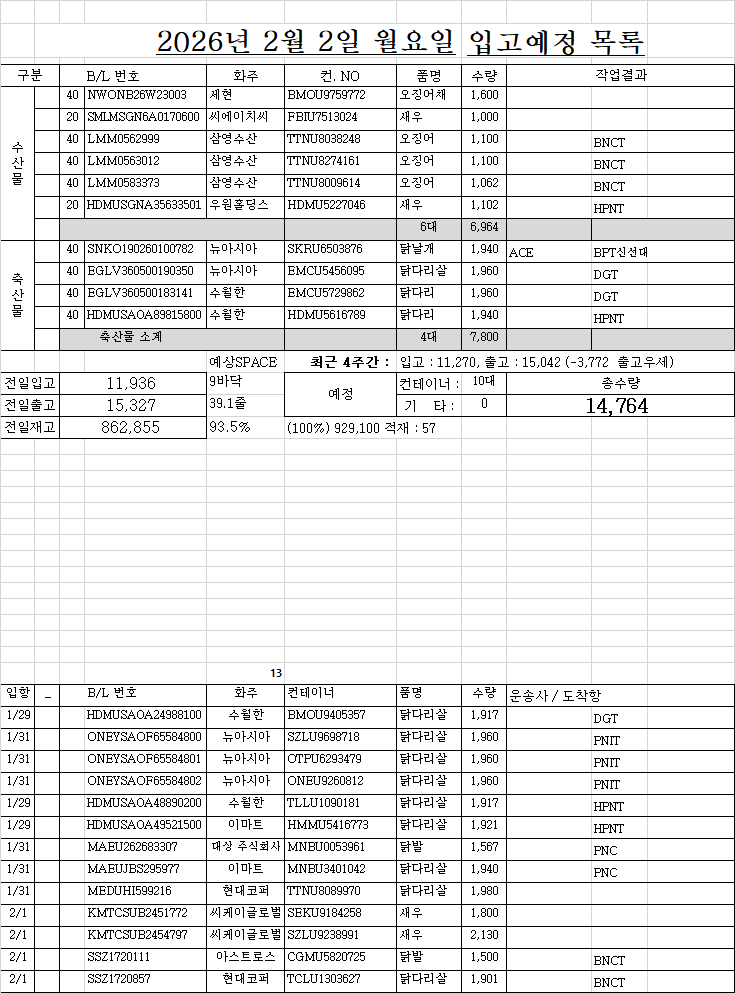
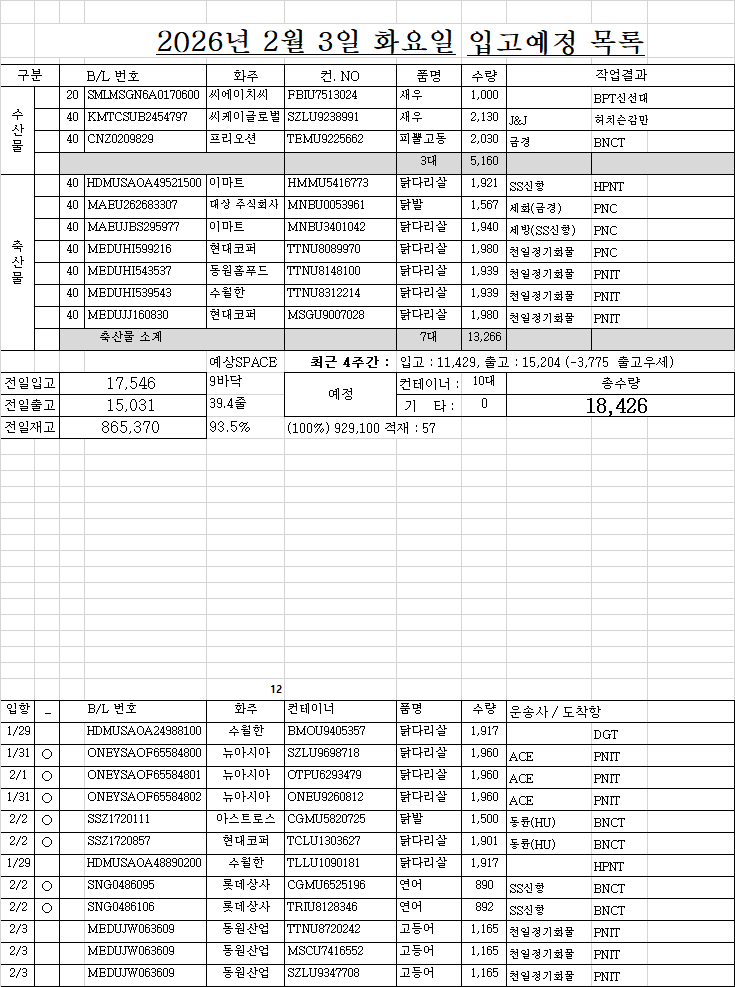
SDFDSFSD

diff --git a/list.html b/list.html
@@ -160,59 +160,56 @@
 </div>
 <!-- ★★★★★★ 따로 빼 놔야한다. 복붙하면 첫칸 비어도 되는데, 여기서는 첫칸비우면 당겨진다. -->
 <!-- ★ 엑셀범위를 브라우저 textarea에 붙여넣으면 첫셀 비어도 제대로 되는데... HTML에 붙여놓은 자료는 처음셀이 비어있으면 당겨짐 -->
-<div class="d-none" id="원본text_리스트1부터w요약열까지">작성	면허	B/LNO.	화주	컨테이너NO.	품명	수량	반입NO.	입항일	구분	도착일	도착시간	구분	운.도VBA	01/30 금 16:26	화찰BL	화찰 선명	화물관리번호	화찰수량	화찰중량	화찰입항	리스트시트기준열	
-1		NWONB26W23003	세현	BMOU9759772	오징어채	1,600 		1/30	1					면허?, CY : 신선대감만터미널(주) 신선대CY, 컨진행 : 하선신고 수리완료, 선사 : 천경해운(주), 포딩 : (주)보나미시스템	NWONB26W23003	SKY VICTORIA	26CKCO0099I-8401-0001	1,600 	17,280.00 	2026.01.30	01/30 금 16:26	
-1		SMLMSGN6A0170600	씨에이치씨	FBIU7513024	새우	1,000 		1/30	1			20 		면허?, CY : 신선대감만터미널(주) 신선대CY, 컨진행 : 하선신고 수리완료, 선사 : 천경해운(주)	SMLMSGN6A0170600	SKY SUNSHINE	26CKCO0117I-8002-	1,000 	7,200.00 	2026.01.30	조회정보	
-1	○	LMM0562999	삼영수산	TTNU8038248	오징어	1,100 	BNCT	1/31	1				BNCT	(주)이지트랜스, CY : (주)비엔씨티(CY), 컨진행 : 보세운송 신고 수리, 선사 : 씨엠에이씨지엠	LMM0562999	CMA CGM VELA	26CMAL0052I-2045-	1,100 	24,190.00 	2026.01.31	적재	57 
-1	○	LMM0563012	삼영수산	TTNU8274161	오징어	1,100 	BNCT	1/31	1				BNCT	(주)이지트랜스, CY : (주)비엔씨티(CY), 컨진행 : 보세운송 신고 수리, 선사 : 씨엠에이씨지엠	LMM0563012	CMA CGM VELA	26CMAL0052I-2046-	1,100 	24,450.00 	2026.01.31	4,617 	3줄
-1		LMM0583373	삼영수산	TTNU8009614	오징어	1,062 	BNCT	1/31	1				BNCT			CMA CGM VELA					6,156 	4줄
-1	○	HDMUSGNA35633501	우원홀딩스	HDMU5227046	새우	1,102 	HPNT	1/31	1			20 	HPNT	(주)에스에스물류, CY : 에이치엠엠피에스에이신항만(주), 컨진행 : 보세운송 신고 수리, 선사 : 에이치엠엠(주)	HDMUSGNA35633501	HMM HARMONY	26HDMUA037I-0111-	1,102 	8,375.20 	2026.01.31	7,695 	5줄
-1	○	SNKO190260100782	뉴아시아	SKRU6503876	닭날개	1,940 	ACE.BPT신선대	1/28	2				ACE.BPT신선대	에이스로지스틱(주), CY : 신선대감만터미널(주) 신선대CY, 컨진행 : 보세운송 신고 수리, 선사 : 장금상선(주)	SNKO190260100782	SAWASDEE ATLANTIC	26SNKO0327I-6095-	1,940 	24,444.00 	2026.01.28	9,234 	6줄
-1	○	EGLV360500190350	뉴아시아	EMCU5456095	닭다리살	1,960 	DGT	1/29	2				DGT	동원로엑스㈜, CY : 동원글로벌터미널부산(주), 컨진행 : 반입완료, 선사 : (주)에버그린코리아	EGLV360500190350	EVER VERT	26EVER6797I-0457-	1,960 	24,500.00 	2026.01.29		
-1	○	EGLV360500183141	수월한	EMCU5729862	닭다리	1,960 	DGT	1/29	2				DGT	동원로엑스㈜, CY : 동원글로벌터미널부산(주), 컨진행 : 반입완료, 선사 : (주)에버그린코리아	EGLV360500183141	EVER VERT	26EVER6797I-0453-	1,960 	24,500.00 	2026.01.29	출고/입고 4주간	
-1	○	HDMUSAOA89815800	수월한	HDMU5616789	닭다리	1,940 	HPNT	1/29	2				HPNT	에이스로지스틱(주), CY : 에이치엠엠피에스에이신항만(주), 컨진행 : 보세운송 신고 수리, 선사 : 에이치엠엠(주)	HDMUSAOA89815800	SEASPAN BEAUTY	26HDMUA012I-0625-	1,940 	24,357.36 	2026.01.29	1일 7/5	5일줄
-2		HDMUSAOA24988100	수월한	BMOU9405357	닭다리살	1,917 	DGT	1/29	2				DGT	면허?, CY : 동원글로벌터미널부산(주), 컨진행 : 반입완료, 선사 : 오션네트워크익스프레스코리아(주)	HDMUSAOA24988100	MOL EXPERIENCE	26ONEY0117I-7019-	1,917 	23,962.50 	2026.01.29	15,042 	48.9
-3		ONEYSAOF65584800	뉴아시아	SZLU9698718	닭다리살	1,960 	PNIT	1/31	2				PNIT			MSC VIRGO					11,148 	36.2
-3		ONEYSAOF65584801	뉴아시아	OTPU6293479	닭다리살	1,960 	PNIT	1/31	2				PNIT			MSC VIRGO					내국제외	
-3		ONEYSAOF65584802	뉴아시아	ONEU9260812	닭다리살	1,960 	PNIT	1/31	2				PNIT			MSC VIRGO					구분	대수
-		HDMUSAOA48890200	수월한	TLLU1090181	닭다리살	1,917 	HPNT	1/29	2				HPNT	면허?, CY : 에이치엠엠피에스에이신항만(주), 컨진행 : 반입완료, 선사 : 에이치엠엠(주)	HDMUSAOA48890200	SEASPAN BEAUTY	26HDMUA012I-0626-	1,917 	23,962.50 	2026.01.29	수산	19
-		HDMUSAOA49521500	이마트	HMMU5416773	닭다리살	1,921 	HPNT	1/29	2				HPNT	면허?, CY : 에이치엠엠피에스에이신항만(주), 컨진행 : 반입완료, 선사 : 에이치엠엠(주)	HDMUSAOA49521500	SEASPAN BEAUTY	26HDMUA012I-0694-	1,921 	23,988.74 	2026.01.29	축산	33
-		MAEU262683307	대상 주식회사	MNBU0053961	닭발	1,567 	PNC	1/31	2				PNC			REN JIAN 15					합계	52
-		MAEUJBS295977	이마트	MNBU3401042	닭다리살	1,940 	PNC	1/31	2				PNC			REN JIAN 15						
-		MEDUHI599216	현대코퍼	TTNU8089970	닭다리살	1,980 		1/31	2												화주별 요약	
-		KMTCSUB2451772	씨케이글로벌	SEKU9184258	새우	1,800 		2/1	1												화주	대수
-		KMTCSUB2454797	씨케이글로벌	SZLU9238991	새우	2,130 		2/1	1												수월한	8
-		SSZ1720111	아스트로스	CGMU5820725	닭발	1,500 	BNCT	2/1	2				BNCT			APL CHARLESTON					뉴아시아	7
-		SSZ1720857	현대코퍼	TCLU1303627	닭다리살	1,901 	BNCT	2/1	2				BNCT			APL CHARLESTON					대상 주식회사	5
-		MEDUHI536804	동원홈푸드	CRSU6143319	닭다리살	1,958 	PNIT	2/3	2				PNIT			MSC QUITTERIE					동원홈푸드	5
-		MEDUHI539196	동원홈푸드	CXRU1017512	닭다리살	1,958 	PNIT	2/3	2				PNIT			MSC QUITTERIE					동원산업	5
-		MEDUHI539204	동원홈푸드	SEGU9280010	닭다리살	1,958 	PNIT	2/3	2				PNIT			MSC QUITTERIE					삼영수산	4
-		MEDUHI539261	동원홈푸드	CAIU5465430	닭다리살	1,946 	PNIT	2/3	2				PNIT			MSC QUITTERIE					씨케이글로벌	4
-		MEDUHI473370	수월한	OTPU6427515	닭다리살	1,958 	PNIT	2/3	2				PNIT			MSC QUITTERIE					현대코퍼	3
-		HLCUPN4251057415	대상 주식회사	TRIU8880245	닭발	1,567 	PNIT	2/4	2				PNIT			HUMBOLDT EXPRESS					아스트로스	3
-		MEDUHI543537	동원홈푸드	TTNU8148100	닭다리살	1,939 	PNIT	2/4	2				PNIT			MSC ANS					이마트	2
-		MEDUHI539543	수월한	TTNU8312214	닭다리살	1,939 	PNIT	2/4	2				PNIT			MSC ANS					세현	1
-		HLCUSCL251233590	아이씨인터	TCLU1180712	연어	860 	PNIT	2/4	1				PNIT			HUMBOLDT EXPRESS					씨에이치씨	1
-		MEDUJJ160830	현대코퍼	MSGU9007028	닭다리살	1,980 		2/4	2												우원홀딩스	1
-		HLCUSCL251271641	GK트레이딩	HLBU6305017	오징어	1,200 		2/5	1												아이씨인터	1
-		SSZ1700526D	대상 주식회사	TRIU8966185	닭다리살	1,980 	BNCT	2/5	2				BNCT			CMA CGM MEKONG					GK트레이딩	1
-		MAEU261759447	동원산업	MNBU0430216	고등어	1,200 	PNC	2/5	1				PNC			NORDLEOPARD					프리오션	1
-		MAEU261759447	동원산업	MNBU4508821	고등어	1,200 	PNC	2/5	1				PNC			NORDLEOPARD					합계	52
-		SAO500947700	뉴아시아	CAAU4073410	닭다리살	1,960 	BPT신선대	2/7	2				BPT신선대			NYK ISABEL						
-		SAO500947701	뉴아시아	FBIU5236770	닭다리살	1,960 	BPT신선대	2/7	2				BPT신선대			NYK ISABEL						
-		HDMUSAOA67353505	수월한	HDMU5620963	닭다리살	1,917 		2/7	2							HMM IVY 						
-		SSZ1724657	아스트로스	TEMU9449554	닭발	1,500 		2/8	2							CMA CGM THORIUM						
-		MAEUSSZ798554	대상 주식회사	MNBU4304221	닭다리살	1,980 	PNC	2/15	2				PNC									
-		MEDUHI598226	수월한	TTNU8322275	닭다리	1,958 		2/15	2							MSC ANZU						
-		OOLU2317300180	씨케이글로벌	FSCU5984155	청어알	1,382 		2/21	1													
-		MEDUJW063609	동원산업	TTNU8720242	고등어	1,165 		2/25	1													
-		MEDUJW063609	동원산업	MSCU7416552	고등어	1,165 		2/25	1													
-		MEDUJW063609	동원산업	SZLU9347708	고등어	1,165 		2/25	1													
+<div class="d-none" id="원본text_리스트1부터w요약열까지">작성	면허	B/LNO.	화주	컨테이너NO.	품명	수량	반입NO.	입항일	구분	도착일	도착시간	구분	운.도VBA	02/02 월 16:31	화찰BL	화찰 선명	화물관리번호	화찰수량	화찰중량	화찰입항	리스트시트기준열	
+1		SMLMSGN6A0170600	씨에이치씨	FBIU7513024	새우	1,000 	BPT신선대	1/30	1			20 	BPT신선대	면허?, CY : 신선대감만터미널(주) 신선대CY, 컨진행 : 반입완료, 선사 : 천경해운(주)	SMLMSGN6A0170600	SKY SUNSHINE	26CKCO0117I-8002-	1,000 	7,200.00 	2026.01.30	02/02 월 16:31	
+1	○	KMTCSUB2454797	씨케이글로벌	SZLU9238991	새우	2,130 	J&J.허치슨감만	2/3	1				J&J.허치슨감만		KMTCSUB2454797	KMTC INCHEON	26KMTC0447I-0061-	2,130 	12,268.80 	2026.02.01	조회정보	
+1	○	CNZ0209829	프리오션	TEMU9225662	피뿔고동	2,030 	금경.BNCT	2/3	1				금경.BNCT		CNZ0209829	CMA CGM OSIRIS	26CMAL0043I-2043-	2,030 	22,432.00 	2026.02.01	적재	57 
+1	○	HDMUSAOA49521500	이마트	HMMU5416773	닭다리살	1,921 	SS신항.HPNT	2/3	2				SS신항.HPNT	면허?, CY : 에이치엠엠피에스에이신항만(주), 컨진행 : 반입완료, 선사 : 에이치엠엠(주)	HDMUSAOA49521500	SEASPAN BEAUTY	26HDMUA012I-0694-	1,921 	23,988.74 	2026.01.29	4,617 	3줄
+1	○	MAEU262683307	대상 주식회사	MNBU0053961	닭발	1,567 	세화(금경).PNC	2/2	2				세화(금경).PNC	(주)골든로지텍, CY : 부산신항만(주)자유무역지역, 컨진행 : 반입완료, 선사 : 한국머스크(주)	MAEU262683307	REN JIAN 15	26MAEU0056I-1076-	1,567 	24,304.17 	2026.01.30	6,156 	4줄
+1	○	MAEUJBS295977	이마트	MNBU3401042	닭다리살	1,940 	세방(SS신항).PNC	2/3	2				세방(SS신항).PNC	면허?, CY : 부산신항만(주)자유무역지역, 컨진행 : 반입완료, 선사 : 한국머스크(주)	MAEUJBS295977	REN JIAN 15	26MAEU0056I-1205-	1,940 	24,225.90 	2026.01.30	7,695 	5줄
+1	○	MEDUHI599216	현대코퍼	TTNU8089970	닭다리살	1,980 	천일정기화물.PNC	2/2	2				천일정기화물.PNC	천일정기화물자동차(주), CY : 부산신항만(주)자유무역지역, 컨진행 : 반입완료, 선사 : 엠에스씨코리아(주)	MEDUHI599216	MSC AMELIA	26MSCU4011I-0202-	1,980 	24,924.24 	2026.01.31	9,234 	6줄
+1	○	MEDUHI543537	동원홈푸드	TTNU8148100	닭다리살	1,939 	천일정기화물.PNIT	2/2	2				천일정기화물.PNIT	천일정기화물자동차(주), CY : 부산신항국제터미널(주), 컨진행 : 반입완료, 선사 : 엠에스씨코리아(주)	MEDUHI543537	MSC ANS	26MSCU4075I-0024-	1,939 	24,249.13 	2026.02.01		
+1	○	MEDUHI539543	수월한	TTNU8312214	닭다리살	1,939 	천일정기화물.PNIT	2/3	2				천일정기화물.PNIT	천일정기화물자동차(주), CY : 부산신항국제터미널(주), 컨진행 : 반입완료, 선사 : 엠에스씨코리아(주)	MEDUHI539543	MSC ANS	26MSCU4075I-0057-	1,939 	24,249.21 	2026.02.01	출고/입고 4주간	
+1		MEDUJJ160830	현대코퍼	MSGU9007028	닭다리살	1,980 	천일정기화물.PNIT	2/3	2				천일정기화물.PNIT			MSC ANS					1일 7/5	5일줄
+2		HDMUSAOA24988100	수월한	BMOU9405357	닭다리살	1,917 	DGT	1/29	2				DGT	면허?, CY : 동원글로벌터미널부산(주), 컨진행 : 반입완료, 선사 : 오션네트워크익스프레스코리아(주)	HDMUSAOA24988100	MOL EXPERIENCE	26ONEY0117I-7019-	1,917 	23,962.50 	2026.01.29	15,224 	49.5
+2	○	ONEYSAOF65584800	뉴아시아	SZLU9698718	닭다리살	1,960 	ACE.PNIT	1/31	2				ACE.PNIT	에이스로지스틱(주), CY : 부산신항국제터미널(주), 컨진행 : 반입완료, 선사 : 엠에스씨코리아(주)	ONEYSAOF65584800	MSC VIRGO	26MSCU6006I-2016-	1,960 	24,500.00 	2026.01.31	11,270 	36.6
+2	○	ONEYSAOF65584801	뉴아시아	OTPU6293479	닭다리살	1,960 	ACE.PNIT	2/1	2				ACE.PNIT	에이스로지스틱(주), CY : 부산신항국제터미널(주), 컨진행 : 반입완료, 선사 : 엠에스씨코리아(주)	ONEYSAOF65584801	MSC VIRGO	26MSCU6006I-2017-	1,960 	24,500.00 	2026.01.31	내국제외	
+2	○	ONEYSAOF65584802	뉴아시아	ONEU9260812	닭다리살	1,960 	ACE.PNIT	1/31	2				ACE.PNIT	에이스로지스틱(주), CY : 부산신항국제터미널(주), 컨진행 : 반입완료, 선사 : 엠에스씨코리아(주)	ONEYSAOF65584802	MSC VIRGO	26MSCU6006I-2018-	1,960 	24,500.00 	2026.01.31	구분	대수
+2	○	SSZ1720111	아스트로스	CGMU5820725	닭발	1,500 	동륜(HU).BNCT	2/2	2				동륜(HU).BNCT	(주)에이치유로지스틱스, CY : (주)비엔씨티(CY), 컨진행 : 보세운송 신고 수리, 선사 : 씨엠에이씨지엠	SSZ1720111	APL CHARLESTON	26CMAL0051I-2031-	1,500 	23,602.50 	2026.02.02	수산	17
+2	○	SSZ1720857	현대코퍼	TCLU1303627	닭다리살	1,901 	동륜(HU).BNCT	2/2	2				동륜(HU).BNCT	(주)에이치유로지스틱스, CY : (주)비엔씨티(CY), 컨진행 : 보세운송 신고 수리, 선사 : 씨엠에이씨지엠	SSZ1720857	APL CHARLESTON	26CMAL0051I-2033-	1,901 	23,929.79 	2026.02.02	축산	32
+3		HDMUSAOA48890200	수월한	TLLU1090181	닭다리살	1,917 	HPNT	1/29	2				HPNT	면허?, CY : 에이치엠엠피에스에이신항만(주), 컨진행 : 반입완료, 선사 : 에이치엠엠(주)	HDMUSAOA48890200	SEASPAN BEAUTY	26HDMUA012I-0626-	1,917 	23,962.50 	2026.01.29	합계	49
+3	○	SNG0486095	롯데상사	CGMU6525196	연어	890 	SS신항.BNCT	2/2	1				SS신항.BNCT	면허?, CY : (주)비엔씨티(CY), 컨진행 : 반입완료, 선사 : 씨엠에이씨지엠	SNG0486095	APL CHARLESTON	26CMAL0051I-2011-	890 	24,745.60 	2026.02.02		
+3	○	SNG0486106	롯데상사	TRIU8128346	연어	892 	SS신항.BNCT	2/2	1				SS신항.BNCT	면허?, CY : (주)비엔씨티(CY), 컨진행 : 반입완료, 선사 : 씨엠에이씨지엠	SNG0486106	APL CHARLESTON	26CMAL0051I-2012-	892 	24,739.00 	2026.02.02	화주별 요약	
+		MEDUJW063609	동원산업	TTNU8720242	고등어	1,165 	천일정기화물.PNIT	2/3	1				천일정기화물.PNIT			MSC FATMA					화주	대수
+		MEDUJW063609	동원산업	MSCU7416552	고등어	1,165 	천일정기화물.PNIT	2/3	1				천일정기화물.PNIT			MSC FATMA					수월한	8
+		MEDUJW063609	동원산업	SZLU9347708	고등어	1,165 	천일정기화물.PNIT	2/3	1				천일정기화물.PNIT			MSC FATMA					대상 주식회사	5
+		MEDUHI536804	동원홈푸드	CRSU6143319	닭다리살	1,958 	천일정기화물.PNIT	2/3	2				천일정기화물.PNIT			MSC QUITTERIE					동원홈푸드	5
+		MEDUHI539196	동원홈푸드	CXRU1017512	닭다리살	1,958 	천일정기화물.PNIT	2/3	2				천일정기화물.PNIT			MSC QUITTERIE					뉴아시아	5
+		MEDUHI539204	동원홈푸드	SEGU9280010	닭다리살	1,958 	천일정기화물.PNIT	2/3	2				천일정기화물.PNIT			MSC QUITTERIE					동원산업	5
+		MEDUHI539261	동원홈푸드	CAIU5465430	닭다리살	1,946 	천일정기화물.PNIT	2/3	2				천일정기화물.PNIT			MSC QUITTERIE					씨케이글로벌	4
+		MEDUHI473370	수월한	OTPU6427515	닭다리살	1,958 	천일정기화물.PNIT	2/3	2				천일정기화물.PNIT			MSC QUITTERIE					현대코퍼	3
+		MEDUHI536788	수월한	TEMU9094583	닭다리살	1,939 	천일정기화물.PNIT	2/3	2				천일정기화물.PNIT			MSC QUITTERIE					아스트로스	3
+		MEDUHI539527	오케이푸드	TGHU9919053	닭다리살	1,958 	SS신항.PNIT	2/3	2				SS신항.PNIT			MSC QUITTERIE					이마트	2
+		DOLWBYS2605E123	우원홀딩스	TEXU9013899	안키모	600 	인터7부두	2/4	1			20 	인터7부두			YONG SHENG 158					롯데상사	2
+		HLCUSCL251271641	GK트레이딩	HLBU6305017	오징어	1,200 	PNIT	2/6	1				PNIT			MSC NOA ARIELA					씨에이치씨	1
+		HLCUPN4251057415	대상 주식회사	TRIU8880245	닭발	1,567 	PNIT	2/7	2				PNIT			HUMBOLDT EXPRESS					프리오션	1
+		SSZ1700526D	대상 주식회사	TRIU8966185	닭다리살	1,980 	BNCT	2/7	2				BNCT			CMA CGM MEKONG					오케이푸드	1
+		HDMUSAOA67353505	수월한	HDMU5620963	닭다리살	1,917 		2/7	2							HMM IVY 					우원홀딩스	1
+		MAEUJBS297692	수월한	SUDU9012830	닭다리살	1,929 	PNC	2/7	2				PNC			GRASMERE MAERSK					GK트레이딩	1
+		HLCUSCL251233590	아이씨코퍼	TCLU1180712	연어	860 	PNIT	2/7	1				PNIT			HUMBOLDT EXPRESS					아이씨코퍼	1
+		MAEU261759447	동원산업	MNBU0430216	고등어	1,200 	PNC	2/8	1				PNC			NORDLEOPARD					삼영수산	1
+		MAEU261759447	동원산업	MNBU4508821	고등어	1,200 	PNC	2/8	1				PNC			NORDLEOPARD					합계	49
+		HLCUSCL251233747	씨케이글로벌	TCLU1188816	연어	1,824 	PNIT	2/8	1				PNIT			BUENOS AIRES EXPRESS						
+		SSZ1724657	아스트로스	TEMU9449554	닭발	1,500 	BNCT	2/8	2				BNCT			CMA CGM THORIUM						
+		SAO500947700	뉴아시아	CAAU4073410	닭다리살	1,960 	BPT신선대	2/9	2				BPT신선대			NYK ISABEL						
+		SAO500947701	뉴아시아	FBIU5236770	닭다리살	1,960 	BPT신선대	2/9	2				BPT신선대			NYK ISABEL						
+		MEDUHI598226	수월한	TTNU8322275	닭다리	1,958 	PNIT	2/11	2				PNIT			MSC ANZU						
+		MAEUSSZ798554	대상 주식회사	MNBU4304221	닭다리살	1,980 	PNC	2/14	2				PNC			MAERSK CAP JERVIS						
+		OOLU2317300180	씨케이글로벌	FSCU5984155	청어알	1,382 		2/21	1							CMA CGM PRIDE						
 		HLCUIT1251213904	대상 주식회사	SZLU6013538	닭다리살	1,986 		3/2	2							MAERSK SANA						
 		MEDUHI618073	아스트로스	TRLU1648274	닭발	1,500 		3/3	2													
-		COSU6441499120	삼영수산	CXRU1508429	오징어	1,063 		3/7	1													
+		COSU6441499120	삼영수산	CXRU1508429	오징어	1,063 		3/7	1							XIN DA LIAN						
 		SITRRIPU040355	씨케이글로벌	CAIU5186862	새우	1,550 			1			20 										
-		CNZ0209829	프리오션	TEMU9225662	피뿔고동	2,030 			1													
 </div>
 <div class="d-none" id="원본text_입항관리도크부터도착항우측까지">도크	화주	컨테이너	작업순서	상세내용 참조		운송사	물품		06/05 목 16:15	B/L	도착항	상세내용
 </div>   
